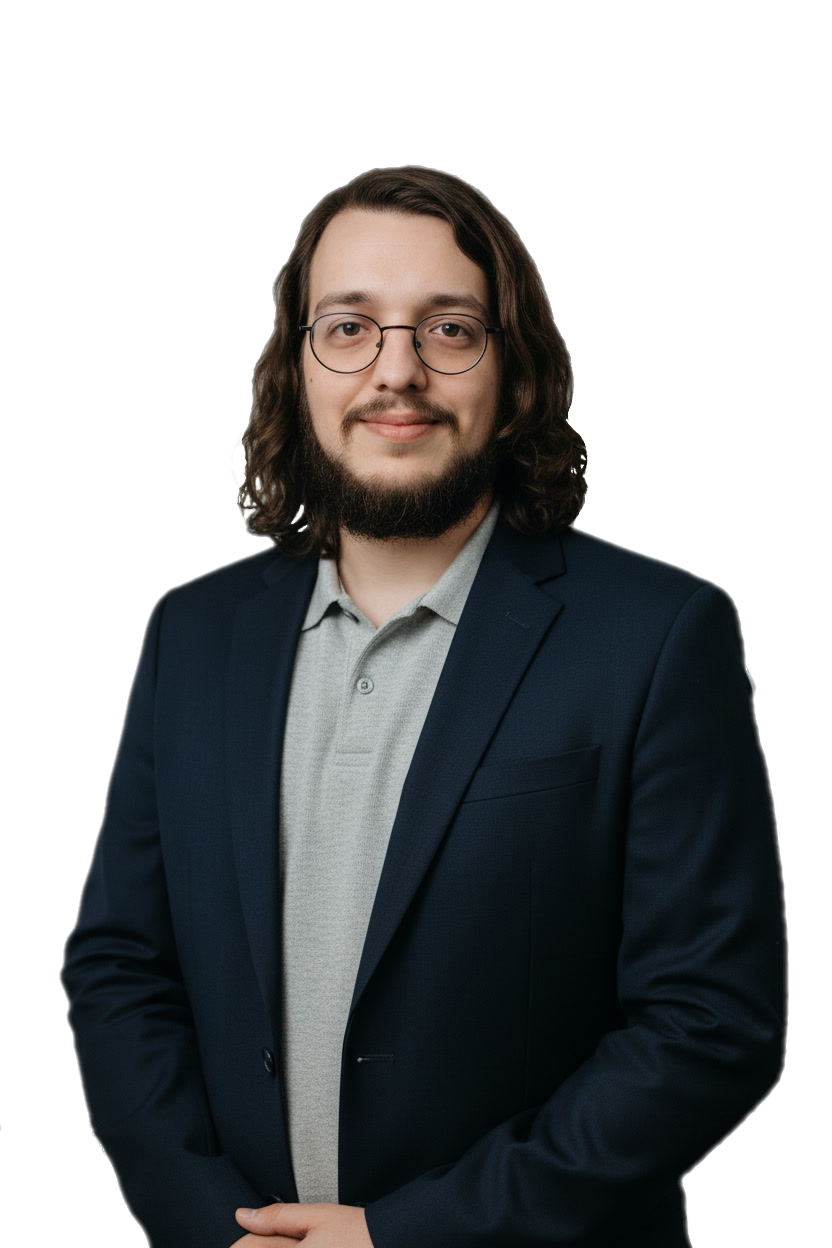
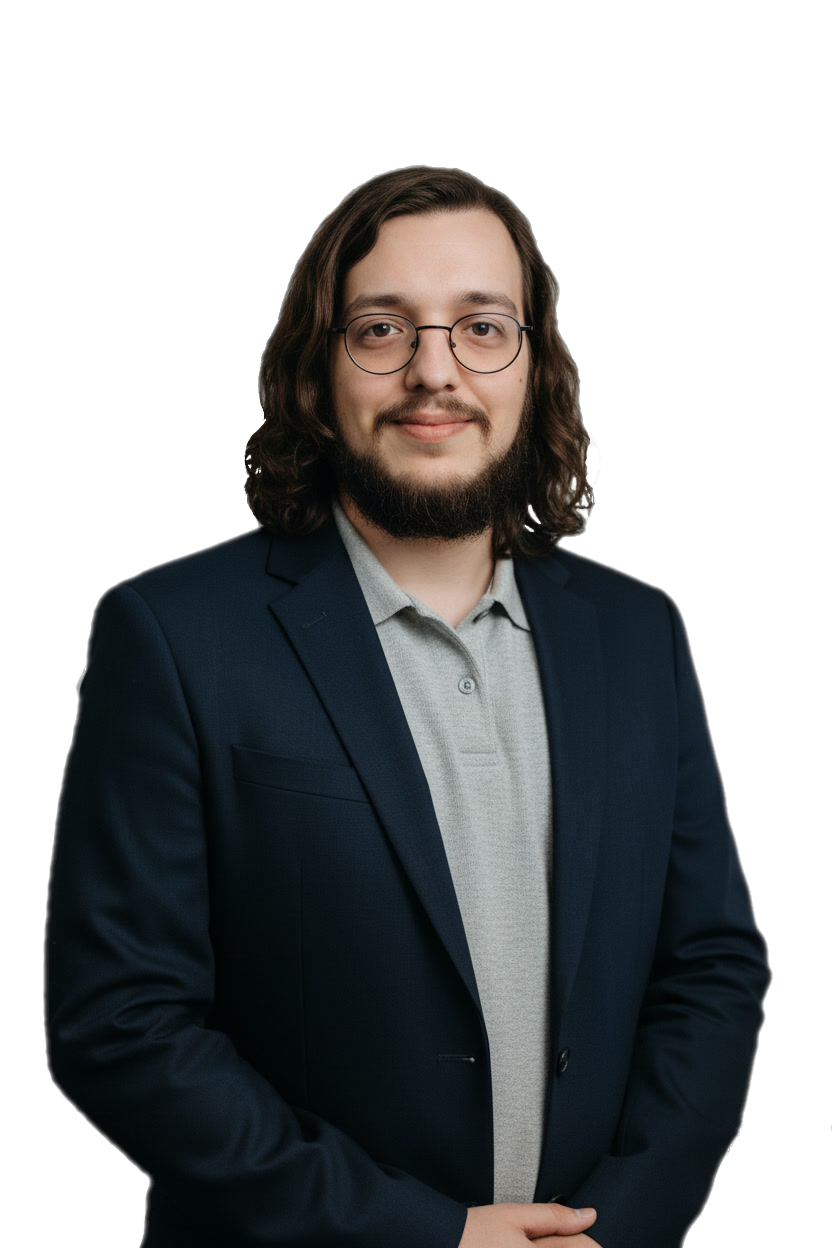
ui: refine language switcher flag size and spacing

Changed region(s): [[0.0312, 0.125, 0.9688, 1.0]]

diff --git a/src/components/atoms/LanguageControl.vue b/src/components/atoms/LanguageControl.vue
@@ -1,20 +1,37 @@
 <template>
-  <div class="flex items-center gap-1">
+  <div class="flex items-center gap-3">
     <button 
       v-for="lang in languages" 
       :key="lang.code"
       @click="setLanguage(lang.code)"
-      class="w-6 h-6 rounded-full flex items-center justify-center text-xs transition-all duration-200 overflow-hidden"
+      class="w-4 h-4 rounded-full overflow-hidden transition-all duration-200 flex items-center justify-center"
       :class="[
-        currentLocale === lang.code 
+        locale === lang.code 
           ? 'ring-2 ring-offset-2 ring-[var(--color-accent)] scale-110' 
-          : 'opacity-50 hover:opacity-100 grayscale hover:grayscale-0'
+          : 'opacity-60 hover:opacity-100 grayscale hover:grayscale-0'
       ]"
       :title="lang.name"
     >
-      <span v-if="lang.flag" class="cursor-pointer">{{ lang.flag }}</span>
-      <svg v-else-if="lang.svg" :viewBox="lang.svg.viewBox" class="w-full h-full object-cover cursor-pointer">
-        <path :d="lang.svg.path" :fill="lang.svg.fill" />
+      <svg 
+        viewBox="0 0 3 2" 
+        class="w-full h-full object-cover"
+        xmlns="http://www.w3.org/2000/svg"
+        preserveAspectRatio="xMidYMid slice"
+      >
+        <g v-if="lang.code === 'en'">
+          <rect width="3" height="2" fill="#B22234" />
+          <path d="M0 0.2h3M0 0.6h3M0 1h3M0 1.4h3M0 1.8h3" stroke="#fff" stroke-width="0.2" />
+          <rect width="1.2" height="1" fill="#3C3B6E" />
+        </g>
+        <g v-if="lang.code === 'es'">
+          <rect width="3" height="0.66" fill="#AA151B" />
+          <rect y="0.66" width="3" height="0.67" fill="#F1BF00" />
+          <rect y="1.33" width="3" height="0.67" fill="#AA151B" />
+        </g>
+        <g v-if="lang.code === 'ca'">
+          <rect width="3" height="2" fill="#FCD116" />
+          <path d="M0 0.3h3M0 0.9h3M0 1.5h3M0 2.1h3" stroke="#D52B1E" stroke-width="0.3" />
+        </g>
       </svg>
     </button>
   </div>
@@ -25,21 +42,12 @@ import { computed } from 'vue'
 import { useI18n } from 'vue-i18n'
 
 const { locale } = useI18n()
-
 const currentLocale = computed(() => locale.value)
 
 const languages = [
-  { code: 'en', name: 'English', flag: '🇺🇸' },
-  { code: 'es', name: 'Español', flag: '🇪🇸' },
-  { 
-    code: 'ca', 
-    name: 'Català', 
-    svg: { 
-      viewBox: '0 0 640 300', 
-      path: 'M0 0h640v300H0z M0 60h640v30H0z M0 120h640v30H0z M0 180h640v30H0z M0 240h640v30H0z', 
-      fill: '#ffcc00' 
-    } 
-  },
+  { code: 'en', name: 'English' },
+  { code: 'es', name: 'Español' },
+  { code: 'ca', name: 'Català' },
 ]
 
 const setLanguage = (code: string) => {
